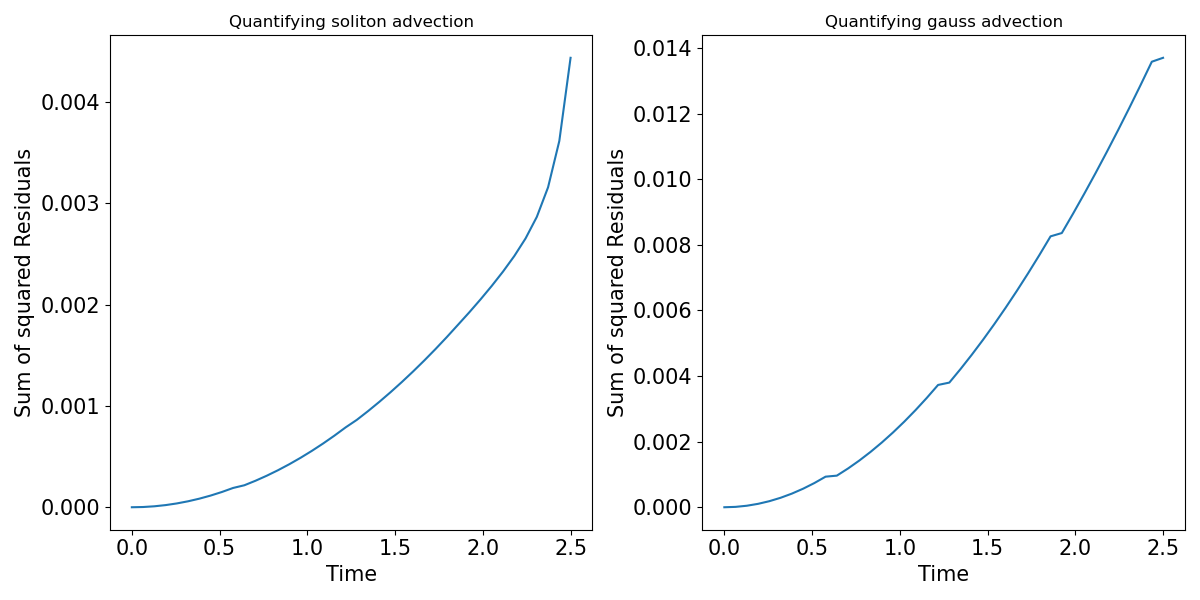
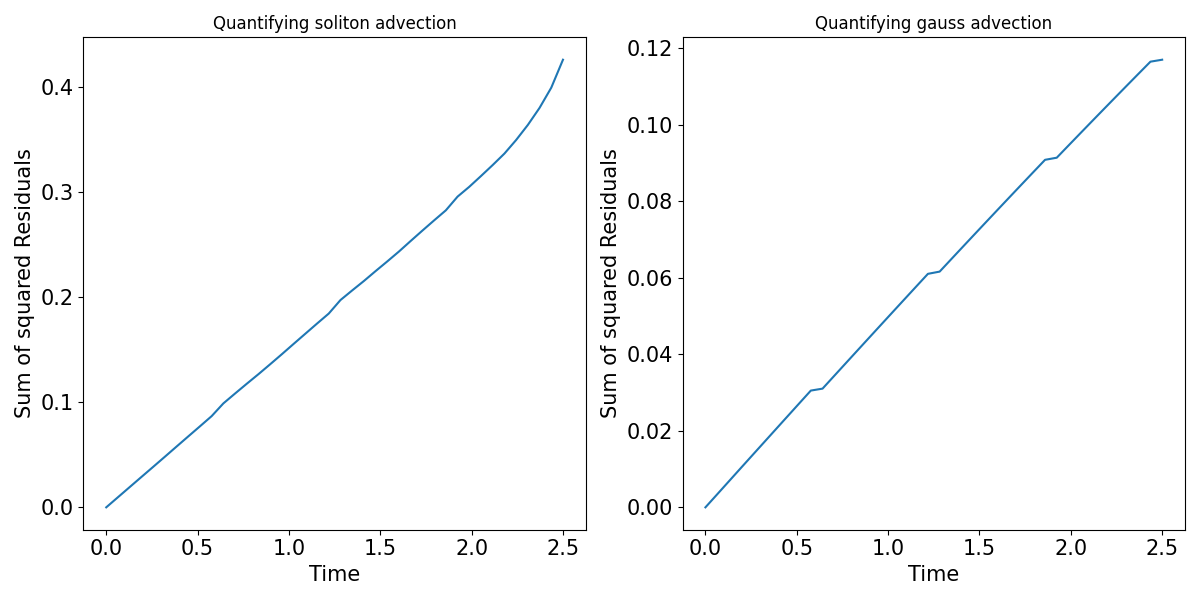
last commit

diff --git a/solitons_comparison_plot.py b/solitons_comparison_plot.py
@@ -6,16 +6,26 @@ from soliton_plot import *
 
 # Load the .npz file
 data = np.load('Data\\solitons_comparison.npz')
+#data = np.load('Data/solitons_comparison.npz') # Linux
 
 # Access individual arrays
+# full solution with Dx = 0.8
 u_solution = data['u_sol']
 u_ana_list = data['u_ana']
 
+# 3rd snapshot of solution with Dx = 0.4
 u_sol_2 = data['u2']
 u_ana_2 = data['a2']
 
+# 3rd snapshot of solution with Dx = 0.2
 u_sol_4 = data['u4']
 u_ana_4 = data['a4']
+
+# residuals 
+res1 =(u_solution[3] - u_ana_list[3])
+res2 =(u_sol_2 - u_ana_2)
+res3 =(u_sol_4 - u_ana_4)
+
 
 x_series = data['x_series']
 x_series2 = data['x_series2']
@@ -46,7 +56,7 @@ for i, ax in enumerate(axes.flat):
 # To prevent overlap
 plt.tight_layout()
 plt.savefig("Figures//solitons_comparison.png")
-#plt.show()
+#plt.savefig("Figures/solitons_comparison.png") # Linux
 plt.clf()
 
 
@@ -55,8 +65,10 @@ fig,axes = plt.subplots(1,3,figsize=(12,4))
 
 u_conv_sol_list=[u_solution[3],u_sol_2,u_sol_4]
 u_conv_ana_list=[u_ana_list[3],u_ana_2,u_ana_4]
+res_list = [res1,res2,res3]
 
 x_series_list=[x_series,x_series2,x_series4]
+
 DeltaX_list=[0.8,0.4,0.2]
 for i, ax in enumerate(axes.flat):
         ax.plot(x_series_list[i],u_conv_sol_list[i],".",label="Numerical solutions")
@@ -78,5 +90,31 @@ for i, ax in enumerate(axes.flat):
 # To prevent overlap
 plt.tight_layout()
 plt.savefig("Figures//solitons_convergence.png")
+#plt.savefig("Figures/solitons_convergence.png")  # Linux
+plt.clf()
 
+# Plotting residuals
+fig,axes = plt.subplots(1,3,figsize=(12,4))
+
+for i, ax in enumerate(axes.flat):
+        ax.plot(x_series_list[i],res_list[i],".")
+        
+        # Axes title
+        ax.set_title(f'Step size = {DeltaX_list[i]}', fontsize=15)
+        
+        # Axes label
+        ax.set_xlabel('x [A.U.]', fontsize = 15)
+        if i==2:
+            ax.legend(fontsize=14)
+        ax.set_ylabel('Residuals', fontsize = 15)
+        
+        # Ticks font size
+        ax.tick_params(axis='both', labelsize=15)  
+
+        #ax.set_ylim(-0.2,0.1)
+
+# To prevent overlap
+plt.tight_layout()
+plt.savefig("Figures//solitons_convergence_residuals.png")
+#plt.savefig("Figures/solitons_convergence_residuals.png")  # Linux
 plt.clf()

diff --git a/Quantify_advection.py b/Quantify_advection.py
@@ -46,8 +46,10 @@ for t in T_series:  # Skip the initial time step (t=0)
     analytical_sol= np.array([soliton_solution(x, t=0,x0=x0+t*eps) for x in x_series])
     numerical_gaus = u_solution_gaus[:, int(t / Delta_t)]
     analytical_gauss= np.array([init(x,X_max/2+t*eps) for x in x_series])
-    residual_sol = np.sum((numerical_sol - analytical_sol) ** 2)
+    residual_sol = np.sqrt(np.sum(((numerical_sol - analytical_sol)) ** 2))
+    #residual_sol = np.sum(np.abs((numerical_sol - analytical_sol)))
     residals_list.append(residual_sol)
-    residual_gauss = np.sum((numerical_gaus - analytical_gauss) ** 2)
+    residual_gauss = np.sqrt(np.sum(((numerical_gaus - analytical_gauss)) ** 2))
     residual_list_gauss.append(residual_gauss)
 np.savez('Data\\Res_list',sol_list=residals_list, gauss_list=residual_list_gauss)
+#np.savez('Data/Res_list',sol_list=residals_list, gauss_list=residual_list_gauss) # Linux

diff --git a/Quantify_advection_plot.py b/Quantify_advection_plot.py
@@ -1,7 +1,8 @@
 import matplotlib.pyplot as plt
 import numpy as np
 
-data=np.load("Data\\Res_list.npz")
+#data=np.load("Data\\Res_list.npz")
+data=np.load("Data/Res_list.npz") # Linux
 
 res_sol=data['sol_list']
 res_gaus=data['gauss_list']
@@ -29,5 +30,6 @@ ax[1].tick_params(axis='both', labelsize=15)
 
 # To prevent overlap
 plt.tight_layout()
-plt.savefig("Figures\\advection_res.png")
+#plt.savefig("Figures\\advection_res.png")
+plt.savefig("Figures/advection_res.png") # Linux
 plt.clf()
